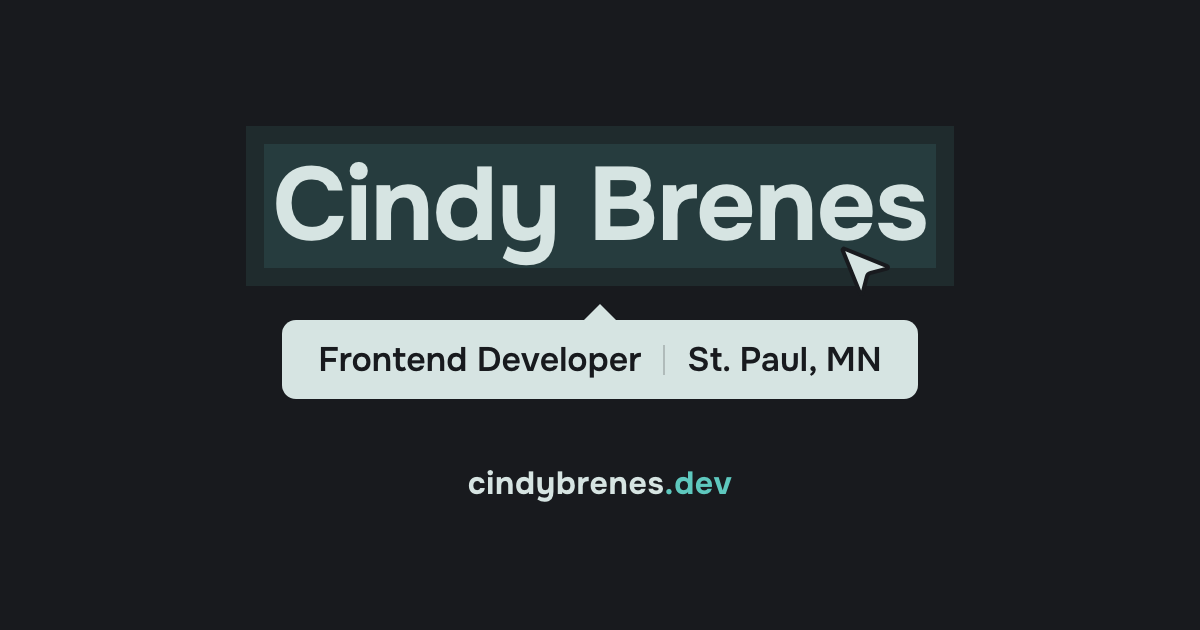
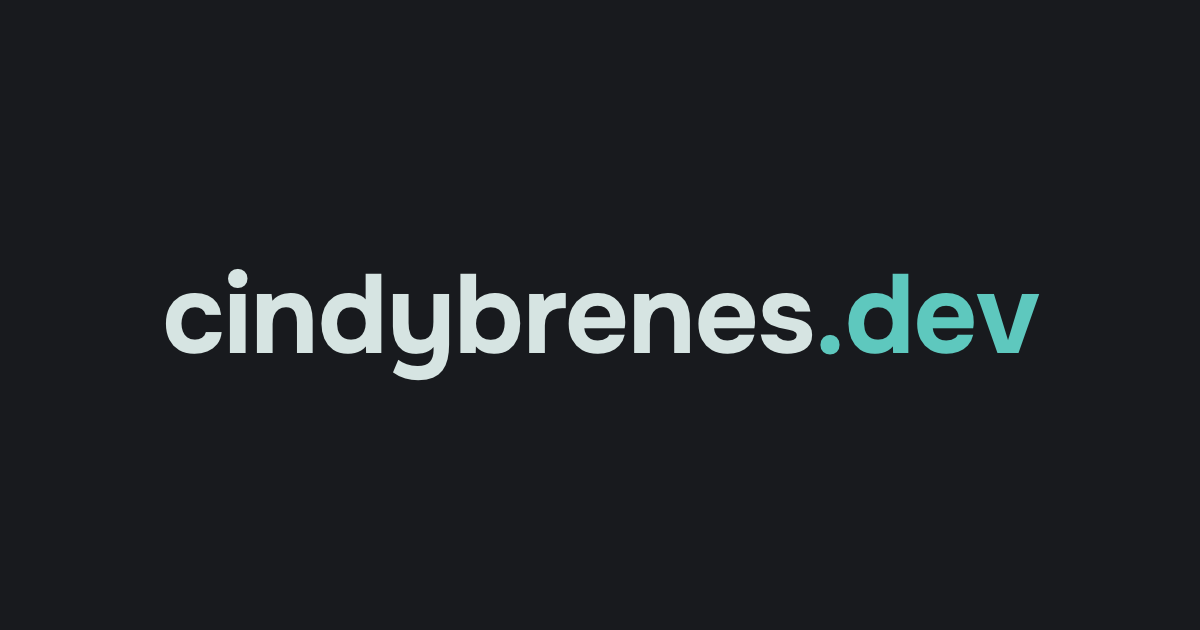
Simplify the link preview image to the site brand

Changed region(s): [[0.1233, 0.2111, 0.8633, 0.6333], [0.37, 0.754, 0.6167, 0.8143]]

diff --git a/index.html b/index.html
@@ -20,12 +20,12 @@
 		<meta property="og:image" content="https://www.cindybrenes.dev/og-image.png" />
 		<meta property="og:image:width" content="1200" />
 		<meta property="og:image:height" content="630" />
-		<meta property="og:image:alt" content="Cindy Brenes, Frontend Developer: cindybrenes.dev" />
+		<meta property="og:image:alt" content="cindybrenes.dev" />
 		<meta name="twitter:card" content="summary_large_image" />
 		<meta name="twitter:title" content="Cindy Brenes | Frontend Developer" />
 		<meta name="twitter:description" content="Frontend developer in St. Paul, MN building accessible, responsive interfaces, now in React. Open to remote, mid-level roles." />
 		<meta name="twitter:image" content="https://www.cindybrenes.dev/og-image.png" />
-		<meta name="twitter:image:alt" content="Cindy Brenes, Frontend Developer: cindybrenes.dev" />
+		<meta name="twitter:image:alt" content="cindybrenes.dev" />
 		<!-- Tells search engines who the site is about -->
 		<script type="application/ld+json">
 			{
